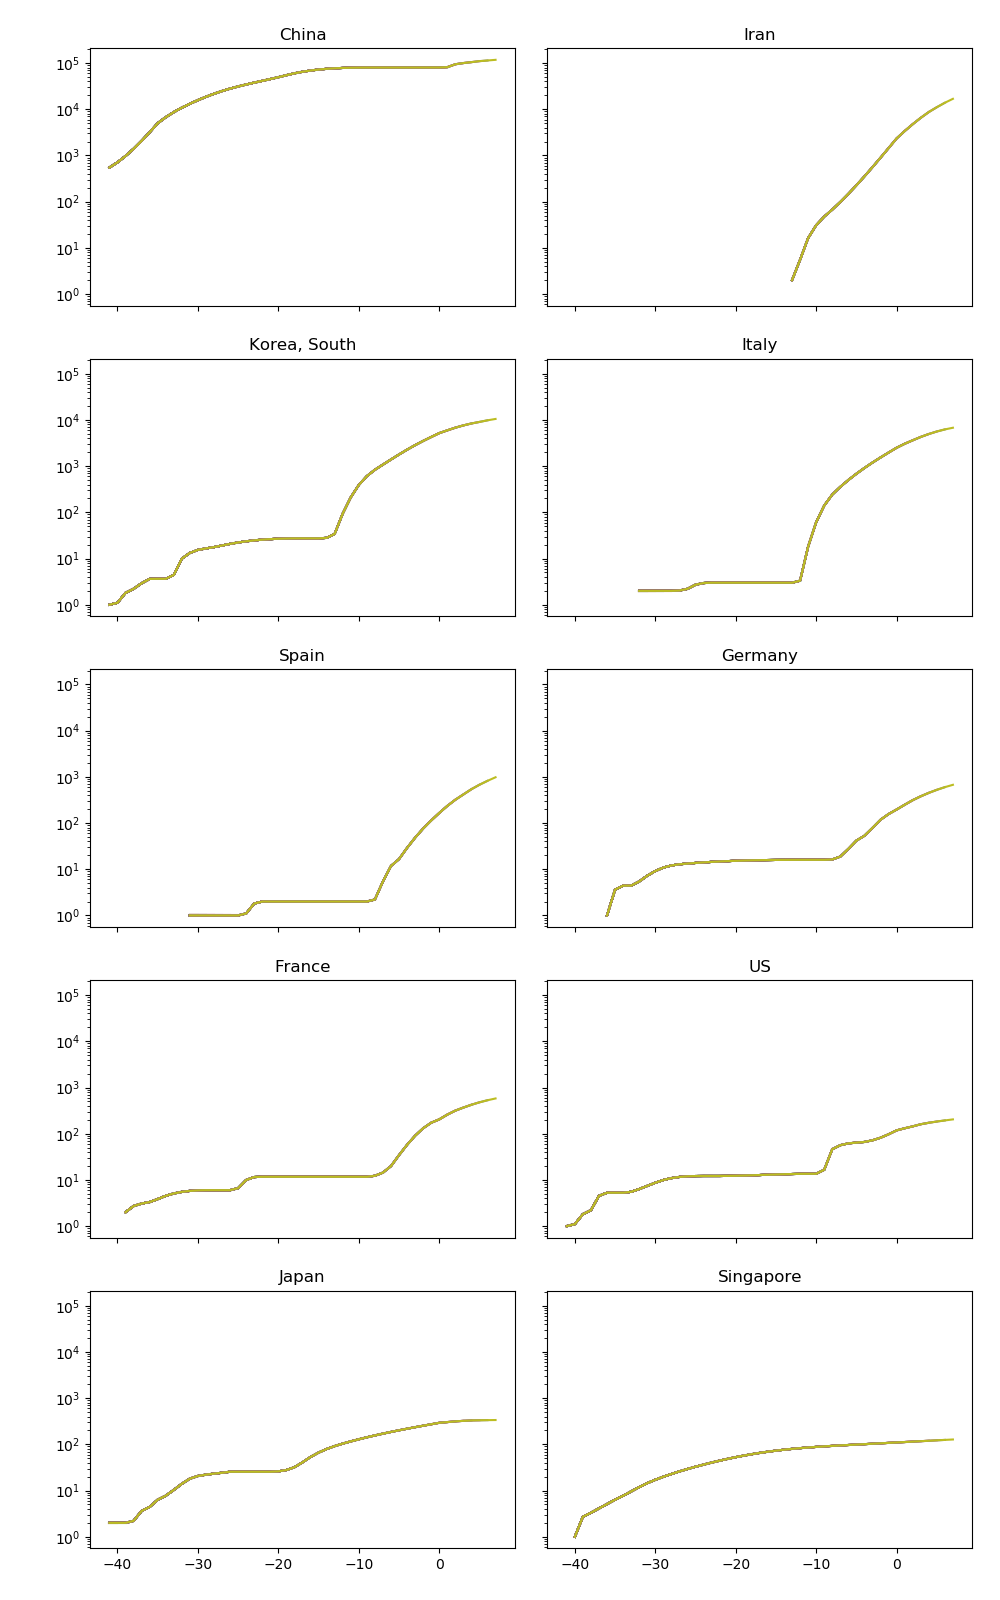
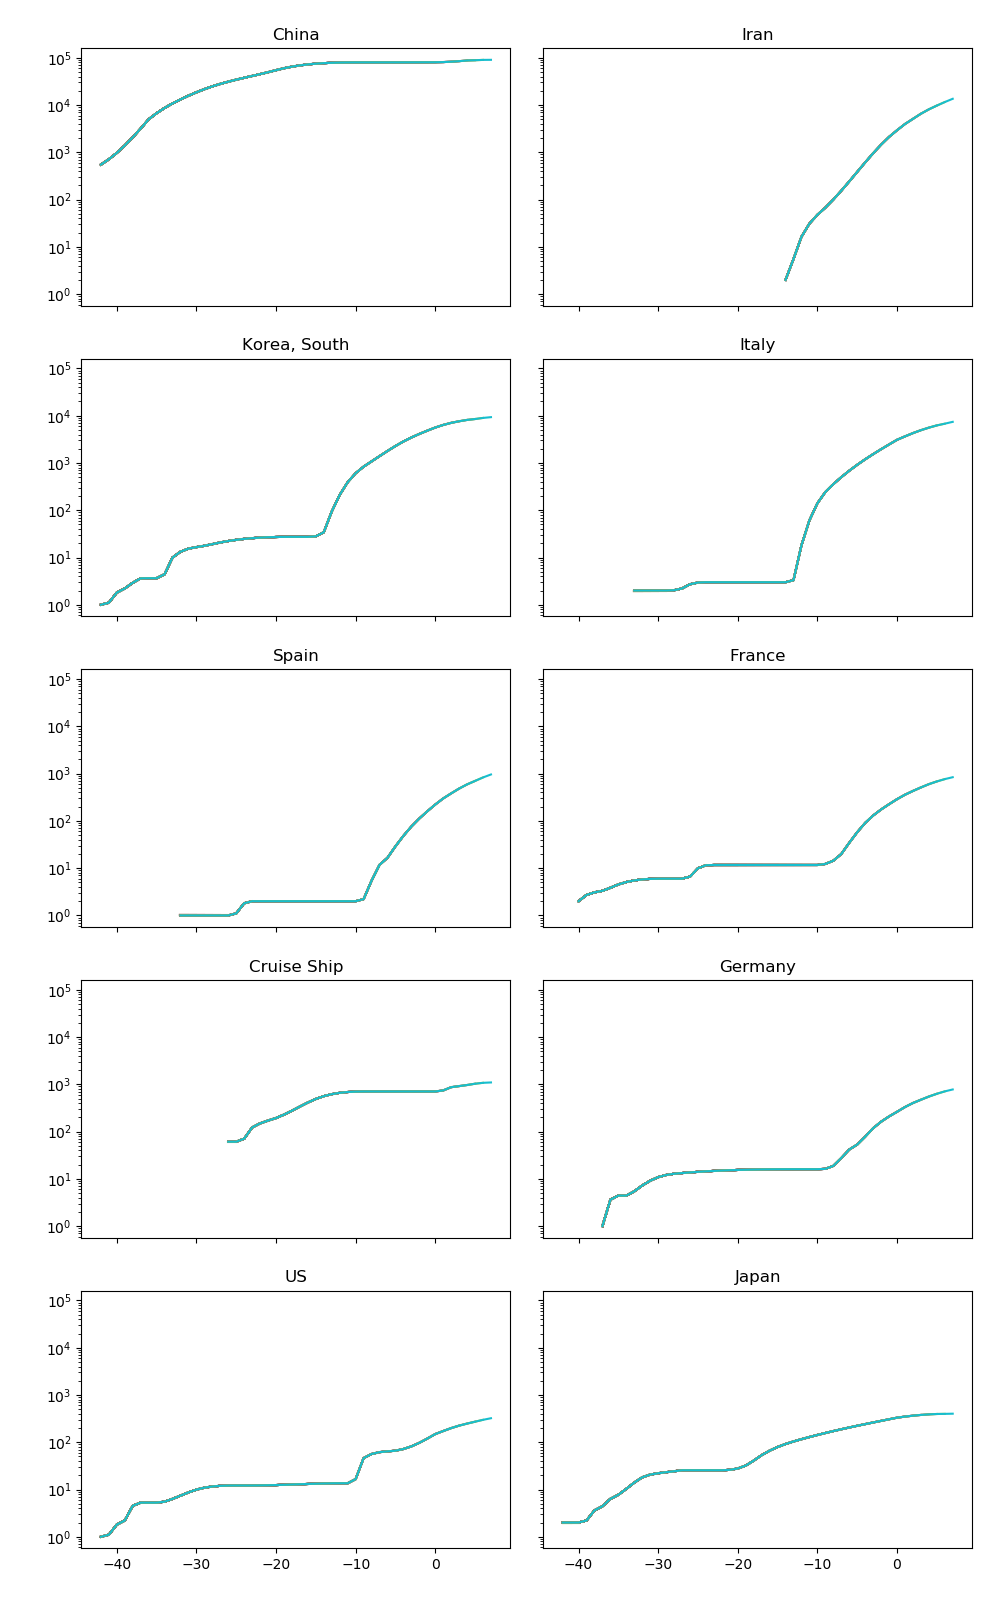
daily update

diff --git a/data_analyze.py b/data_analyze.py
@@ -7,7 +7,7 @@ CSVout = "smoothed.csv"
 
 locations = [['Mainland China'],['Delaware County','PA','US'],['PA','US'],[]]
 
-remove = 10
+remove = 9
 
 def locator_to_label(locator):
     if len(locator) == 0:
